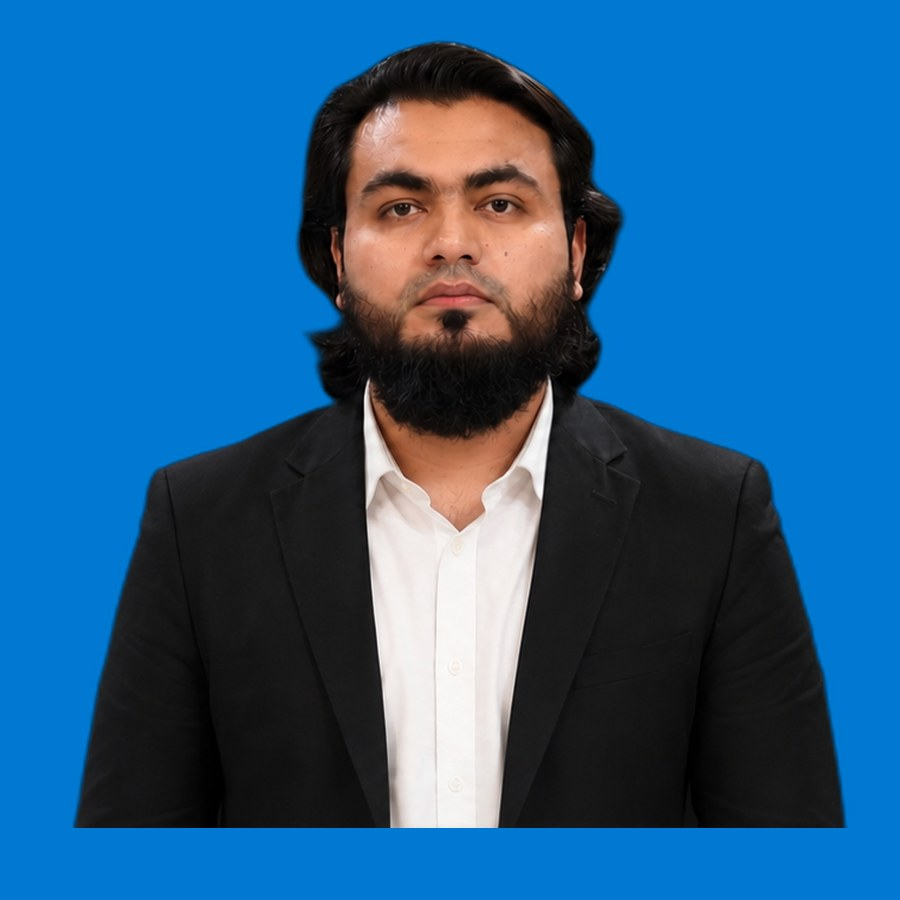
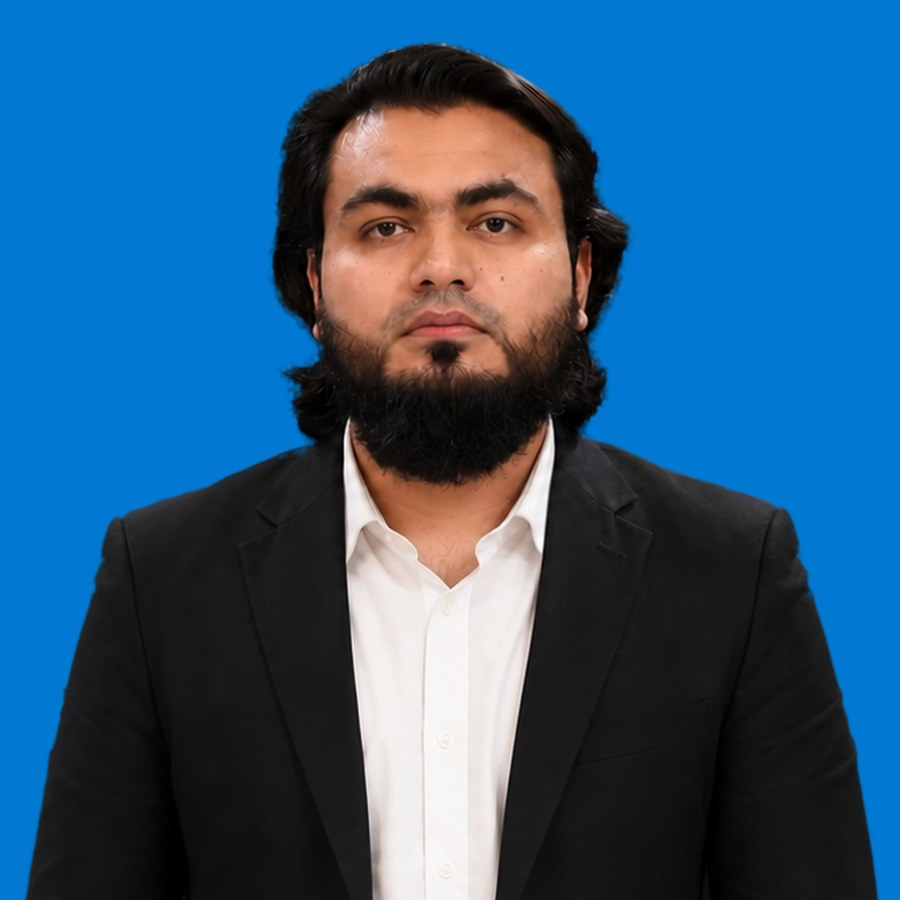
fix(infomist-web): new Uzair Ahmad photo, blue background to match the team set
Replaced the dark-studio portrait with a version composited onto the same solid
blue (rgb 1,121,210), 900x900, head-and-shoulders framing matched to the other
leadership photos. Dropped the imageZoom avatar hack (and its TeamMember fields)
— no longer needed now that the crop is consistent.

Changed region(s): [[0.0, 0.0311, 0.9956, 1.0], [0.4667, 0.7467, 0.4978, 0.7778]]

diff --git a/artifacts/infomist-web/src/components/OurLeadership.tsx b/artifacts/infomist-web/src/components/OurLeadership.tsx
@@ -42,21 +42,12 @@ function MemberCard({ member, accent = "#0EA5E9" }: { member: TeamMember; accent
           className="w-28 h-28 rounded-full overflow-hidden flex-shrink-0"
           style={{ border: `3px solid ${accent}26` }}
         >
-          <div
-            className="h-full w-full"
-            style={
-              member.imageZoom
-                ? { transform: `scale(${member.imageZoom})`, transformOrigin: `center ${member.imageFocusY ?? "30%"}` }
-                : undefined
-            }
-          >
-            <img
-              src={member.image}
-              alt={`${member.name}, ${member.role} at Infomist`}
-              loading="lazy"
-              className="w-full h-full object-cover transition-transform duration-500 ease-out group-hover:scale-110"
-            />
-          </div>
+          <img
+            src={member.image}
+            alt={`${member.name}, ${member.role} at Infomist`}
+            loading="lazy"
+            className="w-full h-full object-cover transition-transform duration-500 ease-out group-hover:scale-110"
+          />
         </div>
         <div className="flex flex-col items-center gap-0.5">
           <h3 className="text-base font-bold text-[#0F172A]">{member.name}</h3>

diff --git a/artifacts/infomist-web/src/data/teamData.ts b/artifacts/infomist-web/src/data/teamData.ts
@@ -5,11 +5,6 @@ export interface TeamMember {
   image: string;
   /** Short one-line description used for SEO alt text / meta and card subtitle */
   bio: string;
-  /** Optional crop tweak for the circular avatar — scale factor (>1 zooms in)
-   *  and a vertical focal point (default "30%"). Used when a source photo sits
-   *  too far back in the frame. */
-  imageZoom?: number;
-  imageFocusY?: string;
 }
 
 const IMG = (file: string) => `${import.meta.env.BASE_URL}team/${file}`;
@@ -57,8 +52,6 @@ export const LEADERSHIP_TEAM: TeamMember[] = [
     role: "UI/UX Lead",
     image: IMG("uzair-ahmad-uiux-lead.webp"),
     bio: "Uzair Ahmad is the UI/UX Lead at Infomist, designing research-driven, conversion-focused interfaces for web and mobile products.",
-    imageZoom: 1.4,
-    imageFocusY: "26%",
   },
   {
     slug: "murtaza-majid",
